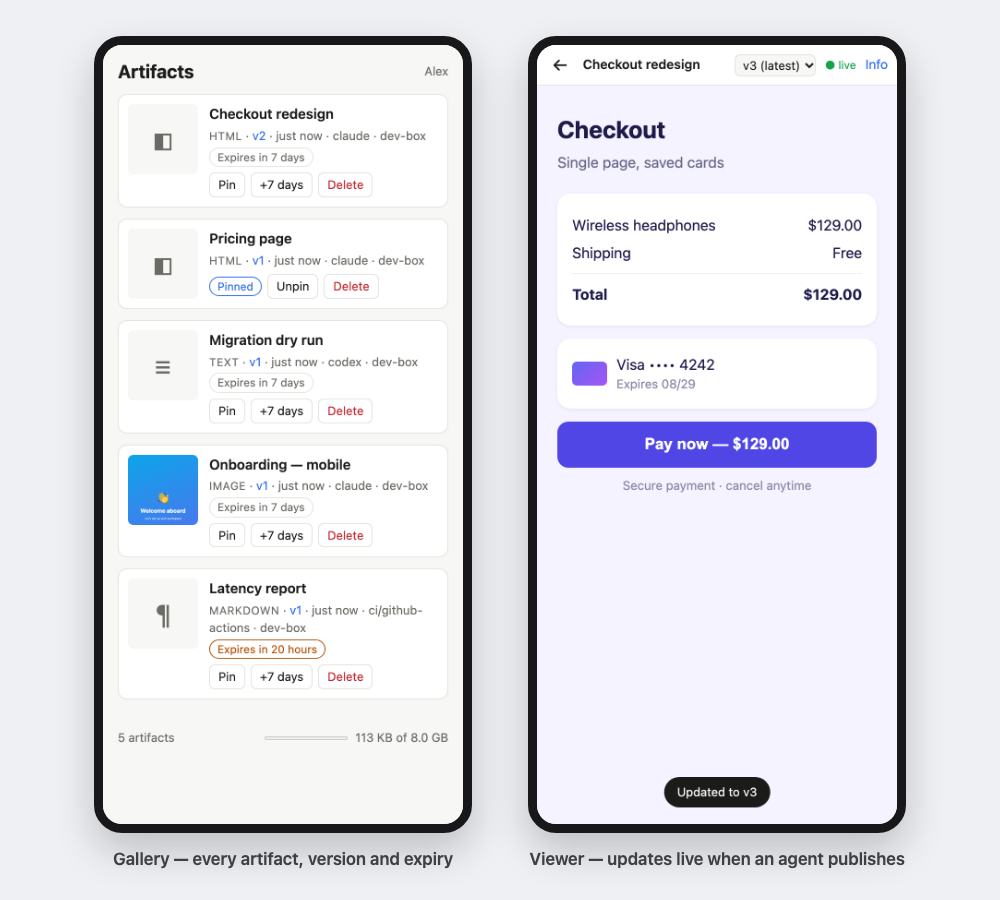
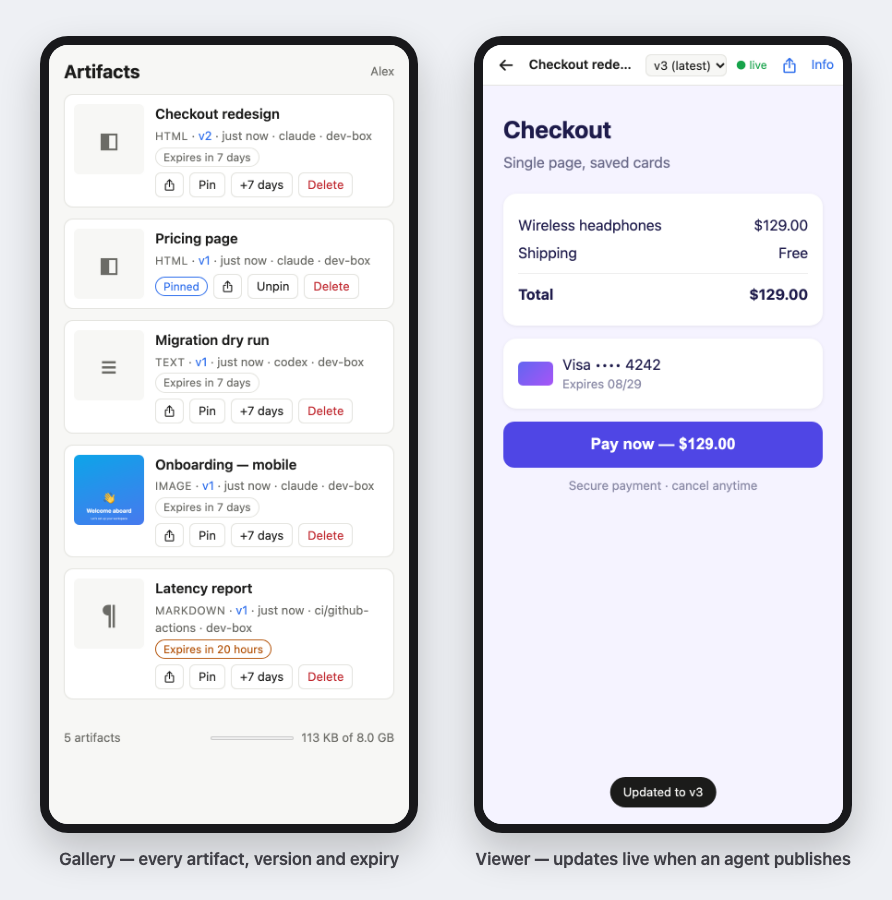
Share button in gallery and viewer; desktop screenshots
- Share on every gallery card and in the viewer toolbar with the
  platform-standard icon; Web Share API with copy-link fallback; shares
  the viewed version; icon-only on phones
- scripts/screenshots.mjs regenerates README images (phone + desktop)
  from neutral demo content; README shows desktop screenshots
- Tests: render and browser tests for share sheet, copy fallback, icons

diff --git a/src/render.js b/src/render.js
@@ -48,12 +48,34 @@ function sourceLine(v) {
   return bits.join(' · ');
 }
 
+// The two platform-standard share icons; CSS shows the one matching the device
+// (app.js / shell.js set html.apple on Apple platforms).
+const SHARE_ICONS = `<svg class="share-icon share-apple" viewBox="0 0 24 24" aria-hidden="true"><path d="M12 3v12M8 7l4-4 4 4"/><path d="M8.5 10H6a1 1 0 0 0-1 1v9a1 1 0 0 0 1 1h12a1 1 0 0 0 1-1v-9a1 1 0 0 0-1-1h-2.5"/></svg>`
+  + `<svg class="share-icon share-other" viewBox="0 0 24 24" aria-hidden="true"><circle cx="18" cy="5" r="2.5"/><circle cx="6" cy="12" r="2.5"/><circle cx="18" cy="19" r="2.5"/><path d="M8.2 10.8l7.6-4.4M8.2 13.2l7.6 4.4"/></svg>`;
+
+/** Share button. data-url/data-title feed the Web Share API (or the copy fallback). */
+function shareButton(url, title, { label = true, cls = '' } = {}) {
+  return `<button type="button" class="share ${cls}" data-share-url="${h(url)}" data-share-title="${h(title)}" aria-label="Share" title="Share link">${SHARE_ICONS}${label ? '<span>Share</span>' : ''}</button>`;
+}
+
+function ownerButtons(meta) {
+  return `<button type="button" data-action="${meta.pinned ? 'unpin' : 'pin'}">${meta.pinned ? 'Unpin' : 'Pin'}</button>
+  ${meta.pinned ? '' : '<button type="button" data-action="extend">+7 days</button>'}
+  <button type="button" class="danger" data-action="delete">Delete</button>`;
+}
+
 function ownerControls(meta, canManage) {
   if (!canManage) return '';
   return `<div class="actions" data-id="${h(meta.id)}">
-  <button type="button" data-action="${meta.pinned ? 'unpin' : 'pin'}">${meta.pinned ? 'Unpin' : 'Pin'}</button>
-  ${meta.pinned ? '' : '<button type="button" data-action="extend">+7 days</button>'}
-  <button type="button" class="danger" data-action="delete">Delete</button>
+  ${ownerButtons(meta)}
+</div>`;
+}
+
+/** Gallery card actions: Share for everyone, owner buttons for owners. */
+function cardActions(meta, canManage, shareUrl) {
+  return `<div class="actions" data-id="${h(meta.id)}">
+  ${shareButton(shareUrl, meta.name)}
+  ${canManage ? ownerButtons(meta) : ''}
 </div>`;
 }
 
@@ -68,7 +90,7 @@ export function galleryPage({ items, urls, viewer, canManage, totalBytes, maxByt
   <div class="meta">
     <a class="title" href="${h(urls.artifact(m.id))}">${h(m.name)}</a>
     <div class="sub"><span class="kind">${KIND_LABEL[v.kind] ?? v.kind}</span> · <a href="${h(urls.info(m.id))}">v${m.current}</a> · ${time(m.updatedAt)}${sourceLine(v) ? ` · ${sourceLine(v)}` : ''}</div>
-    <div class="row">${expiryBadge(m, now)}${ownerControls(m, canManage)}</div>
+    <div class="row">${expiryBadge(m, now)}${cardActions(m, canManage, urls.artifact(m.id))}</div>
   </div>
 </li>`;
   }).join('\n');
@@ -80,11 +102,12 @@ export function galleryPage({ items, urls, viewer, canManage, totalBytes, maxByt
 <main>
 ${items.length ? `<ul class="grid">${cards}</ul>` : `<div class="empty"><p>No artifacts yet.</p><p class="hint">Publish one with <code>artifacts publish ./mockup.html --name "My mockup"</code></p></div>`}
 </main>
+<div id="toast" class="toast" role="status" hidden></div>
 <footer class="foot">
   <span>${items.length} artifact${items.length === 1 ? '' : 's'}</span>
   <span class="usage" title="${pct}% of storage used"><meter min="0" max="100" low="70" high="90" optimum="0" value="${pct}"></meter>${formatBytes(totalBytes)} of ${formatBytes(maxBytes)}</span>
 </footer>`;
-  return layout({ title: 'Artifacts', body, scripts: ['app.js'] });
+  return layout({ title: 'Artifacts', body, scripts: ['app.js', 'share.js'] });
 }
 
 export function shellPage({ meta, n, follow, urls, canManage }) {
@@ -101,12 +124,13 @@ export function shellPage({ meta, n, follow, urls, canManage }) {
   <span class="name" title="${h(meta.name)}">${h(meta.name)}</span>
   <select id="ver" aria-label="Version">${options}</select>
   <span class="live" id="live" hidden title="Following latest version">● live</span>
+  ${shareButton(follow ? urls.artifact(meta.id) : urls.viewVersion(meta.id, n), meta.name, { label: false, cls: 'bar-share' })}
   <a class="link" href="${h(urls.info(meta.id))}" title="Versions and details">Info</a>
   <a class="link" href="${h(src)}" target="_blank" rel="noopener" title="Open without the toolbar">Open ↗</a>
 </header>
 <div id="toast" class="toast" hidden></div>
 <iframe id="frame" title="${h(meta.name)}" src="${h(src)}"${sandbox} referrerpolicy="no-referrer"></iframe>`;
-  return layout({ title: meta.name, body, scripts: ['shell.js'], bodyClass: 'shell' + (canManage ? ' manage' : '') });
+  return layout({ title: meta.name, body, scripts: ['shell.js', 'share.js'], bodyClass: 'shell' + (canManage ? ' manage' : '') });
 }
 
 export function infoPage({ meta, urls, canManage, now }) {

diff --git a/test/browser/viewer.test.js b/test/browser/viewer.test.js
@@ -191,3 +191,56 @@ test('built sites with relative assets and nested pages work in the viewer', asy
     await close();
   }
 });
+
+test('share uses the system share sheet when the browser has one', async () => {
+  const r = await pub([file('index.html', html('<h1>share me</h1>'))], { name: 'Shareable' });
+  const context = await browser.newContext({ viewport: { width: 390, height: 844 } });
+  await context.addInitScript(() => {
+    window.__shared = [];
+    Object.defineProperty(navigator, 'share', { configurable: true, value: async (data) => { window.__shared.push(data); } });
+  });
+  const page = await context.newPage();
+  try {
+    await page.goto(`${s.base}/`);
+    await page.locator(`.card:has-text("Shareable") button.share`).click();
+    assert.deepEqual(await page.evaluate(() => window.__shared), [{ title: 'Shareable', url: `${s.base}/a/${r.id}/` }]);
+
+    await page.goto(`${s.base}/a/${r.id}/`);
+    await page.locator('button.bar-share').click();
+    assert.deepEqual((await page.evaluate(() => window.__shared)).at(-1), { title: 'Shareable', url: `${s.base}/a/${r.id}/` });
+  } finally {
+    await context.close();
+  }
+});
+
+test('share falls back to copying the link, and shows the platform icon', async () => {
+  const r = await pub([file('index.html', html('<h1>copy me</h1>'))], { name: 'Copyable' });
+  const context = await browser.newContext({ viewport: { width: 1280, height: 800 } });
+  await context.grantPermissions(['clipboard-read', 'clipboard-write'], { origin: s.base });
+  await context.addInitScript(() => {
+    Object.defineProperty(navigator, 'share', { configurable: true, value: undefined });
+    Object.defineProperty(navigator, 'platform', { configurable: true, get: () => 'Win32' });
+  });
+  const page = await context.newPage();
+  try {
+    await page.goto(`${s.base}/`);
+    const btn = page.locator(`.card:has-text("Copyable") button.share`);
+    assert.ok(await btn.locator('.share-other').isVisible(), 'three-dots icon off Apple platforms');
+    assert.equal(await btn.locator('.share-apple').isVisible(), false);
+    await btn.click();
+    await page.locator('#toast', { hasText: 'Link copied' }).waitFor();
+    assert.equal(await page.evaluate(() => navigator.clipboard.readText()), `${s.base}/a/${r.id}/`);
+  } finally {
+    await context.close();
+  }
+
+  const mac = await browser.newContext();
+  await mac.addInitScript(() => Object.defineProperty(navigator, 'platform', { configurable: true, get: () => 'MacIntel' }));
+  const p2 = await mac.newPage();
+  try {
+    await p2.goto(`${s.base}/`);
+    assert.ok(await p2.locator(`.card:has-text("Copyable") .share-apple`).isVisible(), 'box-and-arrow icon on Apple platforms');
+  } finally {
+    await mac.close();
+  }
+});

diff --git a/src/static/share.js b/src/static/share.js
@@ -1,0 +1,52 @@
+// Share buttons (gallery and viewer): the system share sheet where the browser has
+// one (Web Share API), otherwise copy the link. Also picks the platform's share icon.
+(() => {
+  const apple = /Mac|iPhone|iPad|iPod/.test(navigator.platform || navigator.userAgent);
+  document.documentElement.classList.toggle('apple', apple);
+
+  function toast(message) {
+    const t = document.getElementById('toast');
+    if (!t) return;
+    t.textContent = message;
+    t.hidden = false;
+    clearTimeout(toast.timer);
+    toast.timer = setTimeout(() => { t.hidden = true; }, 2500);
+  }
+
+  async function copy(text) {
+    try {
+      await navigator.clipboard.writeText(text);
+      return true;
+    } catch {
+      // Older browsers / non-secure contexts.
+      const ta = document.createElement('textarea');
+      ta.value = text;
+      ta.setAttribute('readonly', '');
+      ta.style.position = 'fixed';
+      ta.style.opacity = '0';
+      document.body.append(ta);
+      ta.select();
+      let ok = false;
+      try { ok = document.execCommand('copy'); } catch { /* unsupported */ }
+      ta.remove();
+      return ok;
+    }
+  }
+
+  document.addEventListener('click', async (e) => {
+    const btn = e.target.closest('button[data-share-url]');
+    if (!btn) return;
+    const url = btn.dataset.shareUrl;
+    const title = btn.dataset.shareTitle;
+    if (navigator.share) {
+      try {
+        await navigator.share({ title, url });
+        return;
+      } catch (err) {
+        if (err.name === 'AbortError') return; // the user closed the share sheet
+        // Anything else (e.g. not allowed here): fall back to copying.
+      }
+    }
+    toast((await copy(url)) ? 'Link copied' : url);
+  });
+})();

diff --git a/test/ops.test.js b/test/ops.test.js
@@ -267,3 +267,22 @@ test('malformed requests get clear 4xx errors', async () => {
     await small.stop();
   }
 });
+
+test('share buttons: on every gallery card and in the viewer, with the right link', async () => {
+  const r = await pub([file('index.html', 'x')], { name: 'Share <me>' });
+  await pub([file('index.html', 'y')], { to: r.id });
+  const anon = await raw('/');
+  const card = new RegExp(`data-share-url="${s.base}/a/${r.id}/" data-share-title="Share &lt;me&gt;"`);
+  assert.match(anon.body, card, 'visible to non-owners, title escaped');
+  assert.match(anon.body, /class="share-icon share-apple"[\s\S]*class="share-icon share-other"/, 'both platform icons');
+  assert.match(anon.body, /<script nonce="[^"]+" src="\/static\/share\.js"/);
+  assert.match((await raw('/', { headers: OWNER })).body, card);
+
+  const latest = await raw(`/a/${r.id}/`);
+  assert.match(latest.body, new RegExp(`class="share bar-share" data-share-url="${s.base}/a/${r.id}/"`));
+  const pinned = await raw(`/a/${r.id}/?v=1`);
+  assert.match(pinned.body, new RegExp(`class="share bar-share" data-share-url="${s.base}/a/${r.id}/\\?v=1"`), 'an older version shares its own link');
+  const js = await raw('/static/share.js');
+  assert.equal(js.status, 200);
+  assert.match(js.body, /navigator\.share/);
+});

diff --git a/src/static/app.css b/src/static/app.css
@@ -100,3 +100,17 @@ body.shell { height: 100vh; height: 100dvh; display: flex; flex-direction: colum
   position: fixed; left: 50%; transform: translateX(-50%); bottom: max(18px, env(safe-area-inset-bottom));
   background: var(--fg); color: var(--bg); padding: 7px 14px; border-radius: 999px; font-size: 13px; z-index: 10;
 }
+
+/* share buttons */
+button.share { display: inline-flex; align-items: center; gap: 5px; }
+.share-icon { width: 15px; height: 15px; fill: none; stroke: currentColor; stroke-width: 1.8; stroke-linecap: round; stroke-linejoin: round; flex: none; }
+.share-apple { display: none; }
+html.apple .share-apple { display: block; }
+html.apple .share-other { display: none; }
+.bar button.bar-share { border: 0; padding: 4px; color: var(--accent); }
+.bar button.bar-share .share-icon { width: 20px; height: 20px; }
+@media (max-width: 480px) {
+  /* Icon-only Share on phones so card actions stay on one row. */
+  button.share > span { display: none; }
+  button.share { padding: 3px 7px; }
+}

diff --git a/src/server.js b/src/server.js
@@ -15,7 +15,7 @@ import * as pages from './render.js';
 
 const STATIC_DIR = join(dirname(fileURLToPath(import.meta.url)), 'static');
 export const VERSION = JSON.parse(await readFile(new URL('../package.json', import.meta.url), 'utf8')).version;
-const STATIC_FILES = new Set(['app.css', 'app.js', 'shell.js', 'icon.svg']);
+const STATIC_FILES = new Set(['app.css', 'app.js', 'shell.js', 'share.js', 'icon.svg']);
 const ID_SEG = '([a-z0-9][a-z0-9-]{0,62})';
 const LOOPBACK = new Set(['localhost', '127.0.0.1', '::1']);
 const TEXT_PREVIEW_BYTES = 2 * 1024 * 1024;

diff --git a/README.md b/README.md
@@ -10,6 +10,15 @@ no domain, certificate or login provider to set up.
 
 ![Gallery and viewer on a phone](docs/images/overview.png)
 
+<details>
+<summary>On a desktop</summary>
+
+![Gallery on a desktop browser](docs/images/desktop-gallery.png)
+
+![Viewer on a desktop browser](docs/images/desktop-viewer.png)
+
+</details>
+
 > **Status: early (0.x).** It runs a real homelab day to day, but expect breaking
 > changes before 1.0. Built for one person or a small team and their own agents:
 > everyone on the tailnet can view every artifact (see [Security](#security)).
@@ -160,8 +169,11 @@ fails. Every command accepts `--help`.
 
 ## Manage artifacts
 
-Owners (Tailscale logins in `ARTIFACTS_OWNERS`) get **Pin**, **+7 days** and
-**Delete** buttons in the gallery and on each artifact's info page. Tokens can do
+Everyone can **Share** an artifact from its gallery card or the viewer toolbar: it
+opens the system share sheet (phones, Safari) or copies the link. Recipients need
+access to your tailnet to open it. Owners (Tailscale logins in `ARTIFACTS_OWNERS`)
+also get **Pin**, **+7 days** and **Delete** buttons in the gallery and on each
+artifact's info page. Tokens can do
 the same within their scope through the [HTTP API](docs/configuration.md#http-api).
 
 ## Configuration

diff --git a/CHANGELOG.md b/CHANGELOG.md
@@ -1,5 +1,10 @@
 # Changelog
 
+## Unreleased
+
+- **Share** button on every gallery card and in the viewer toolbar, with the platform's standard share icon (box-and-arrow on Apple devices, connected dots elsewhere). Opens the system share sheet via the Web Share API, or copies the link and shows "Link copied". In the viewer it shares the version you're looking at. Icon-only on phones so card actions stay on one row.
+- README: desktop screenshots. `scripts/screenshots.mjs` regenerates all README images from neutral demo content.
+
 ## 0.3.1 — 2026-11-12
 **Documentation** (from a review of every doc against the code)
 - README is shorter and task-oriented: prerequisites, "Set up the server" (pointing to one recipe per platform), "Set up a publishing machine" (client prerequisites), publish reference, and summaries.

diff --git a/CONTRIBUTING.md b/CONTRIBUTING.md
@@ -23,6 +23,9 @@ npm run coverage       # both, with a coverage report
 CI runs both suites; please make sure they pass and add a test for every bug fix
 or new behavior.
 
+After a visible UI change, regenerate the README images with
+`node scripts/screenshots.mjs` (neutral demo content, phone and desktop).
+
 ## Principles
 
 - **One runtime dependency.** The server and CLI use Node's standard library plus
